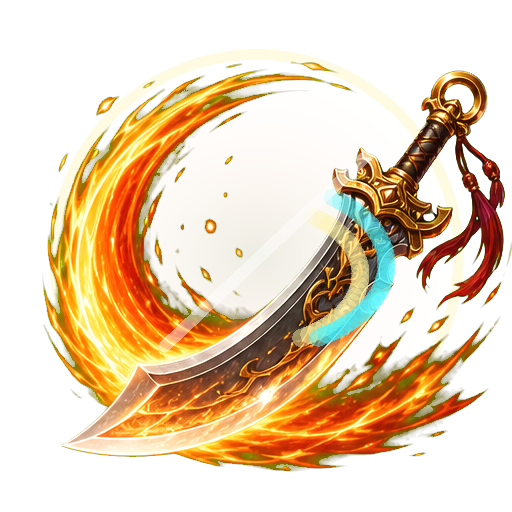
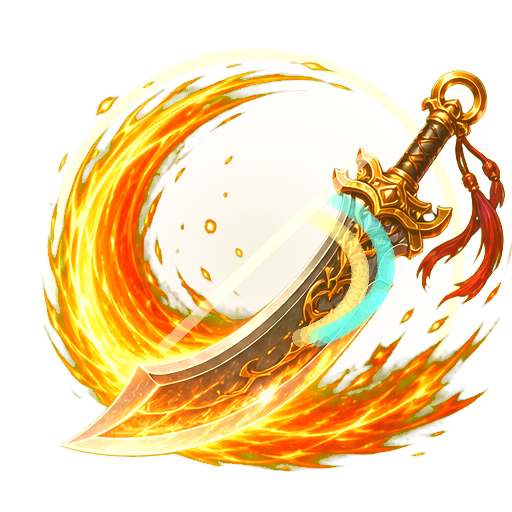
feat: 同步环首刀等级美术资源

diff --git a/game.js b/game.js
@@ -1908,9 +1908,8 @@ class Saber extends Weapon {
         const anchorX = 0.835;
         const anchorY = 0.215;
 
-        this.drawSaberAssetLevelAura(ctx, currentX, currentY, outerRadius, flameAlpha, level, frame, progress, intensity);
-        if (level >= 6) {
-            this.drawSaberUltimateGhosts(ctx, currentX, currentY, icon, imageSize, assetForwardAngle, anchorX, anchorY, flameAlpha, frame, progress, intensity);
+        if (level < 5) {
+            this.drawSaberAssetLevelAura(ctx, currentX, currentY, outerRadius, flameAlpha, level, frame, progress, intensity);
         }
 
         ctx.save();
